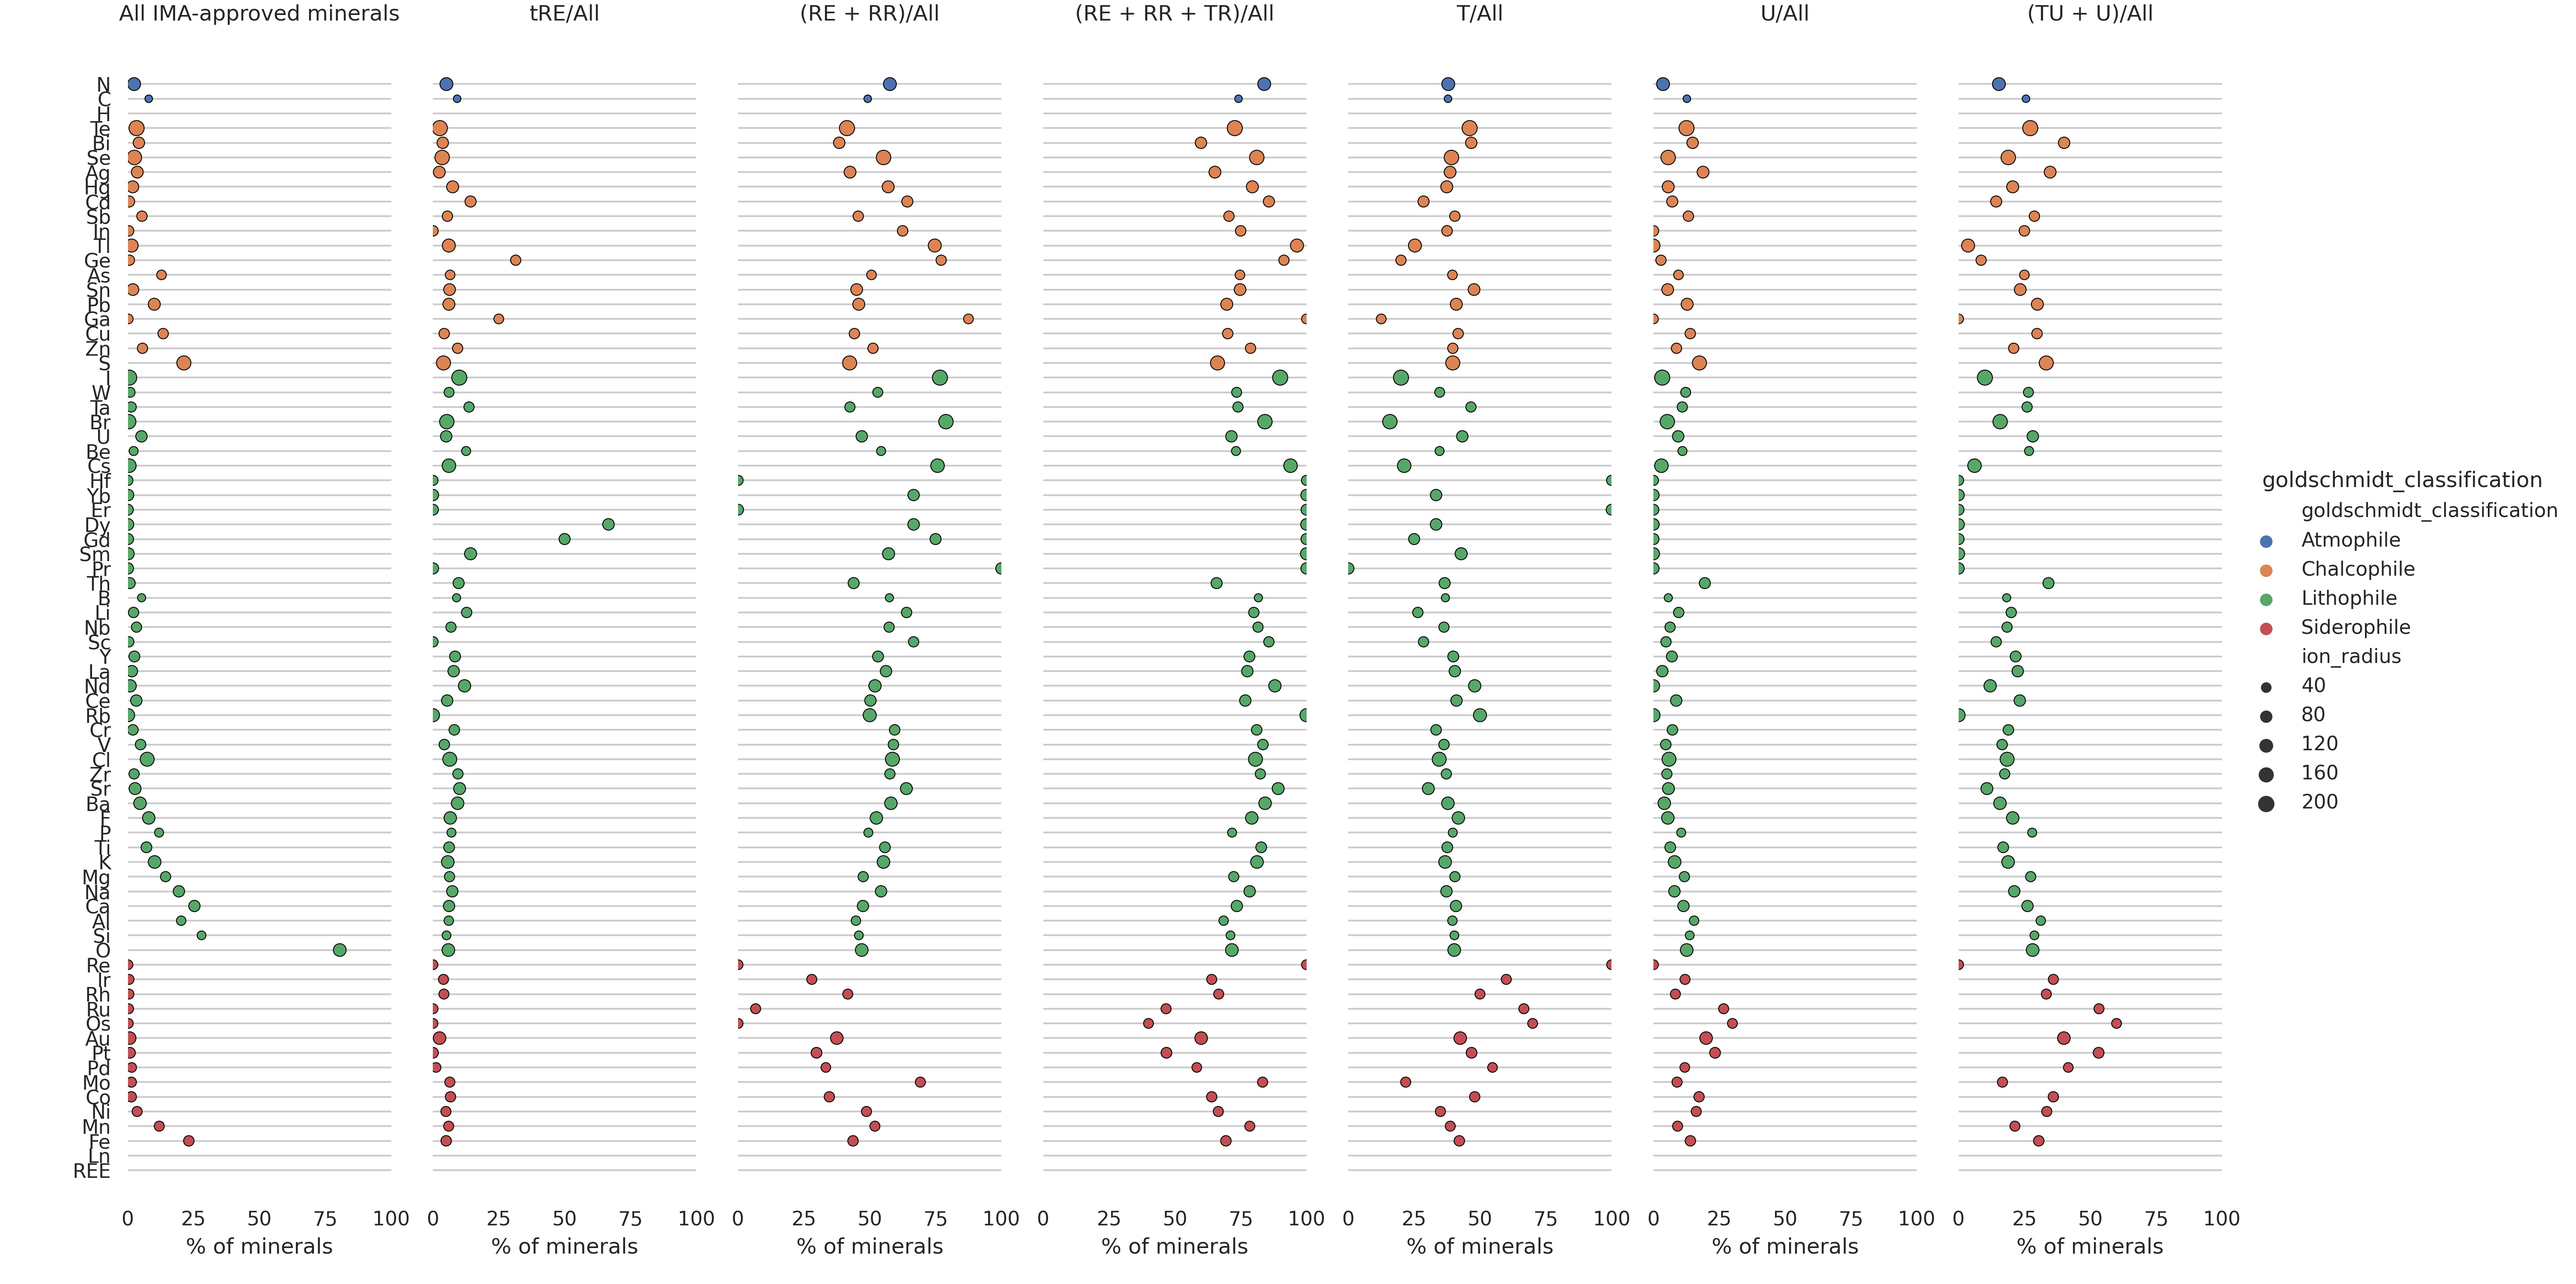
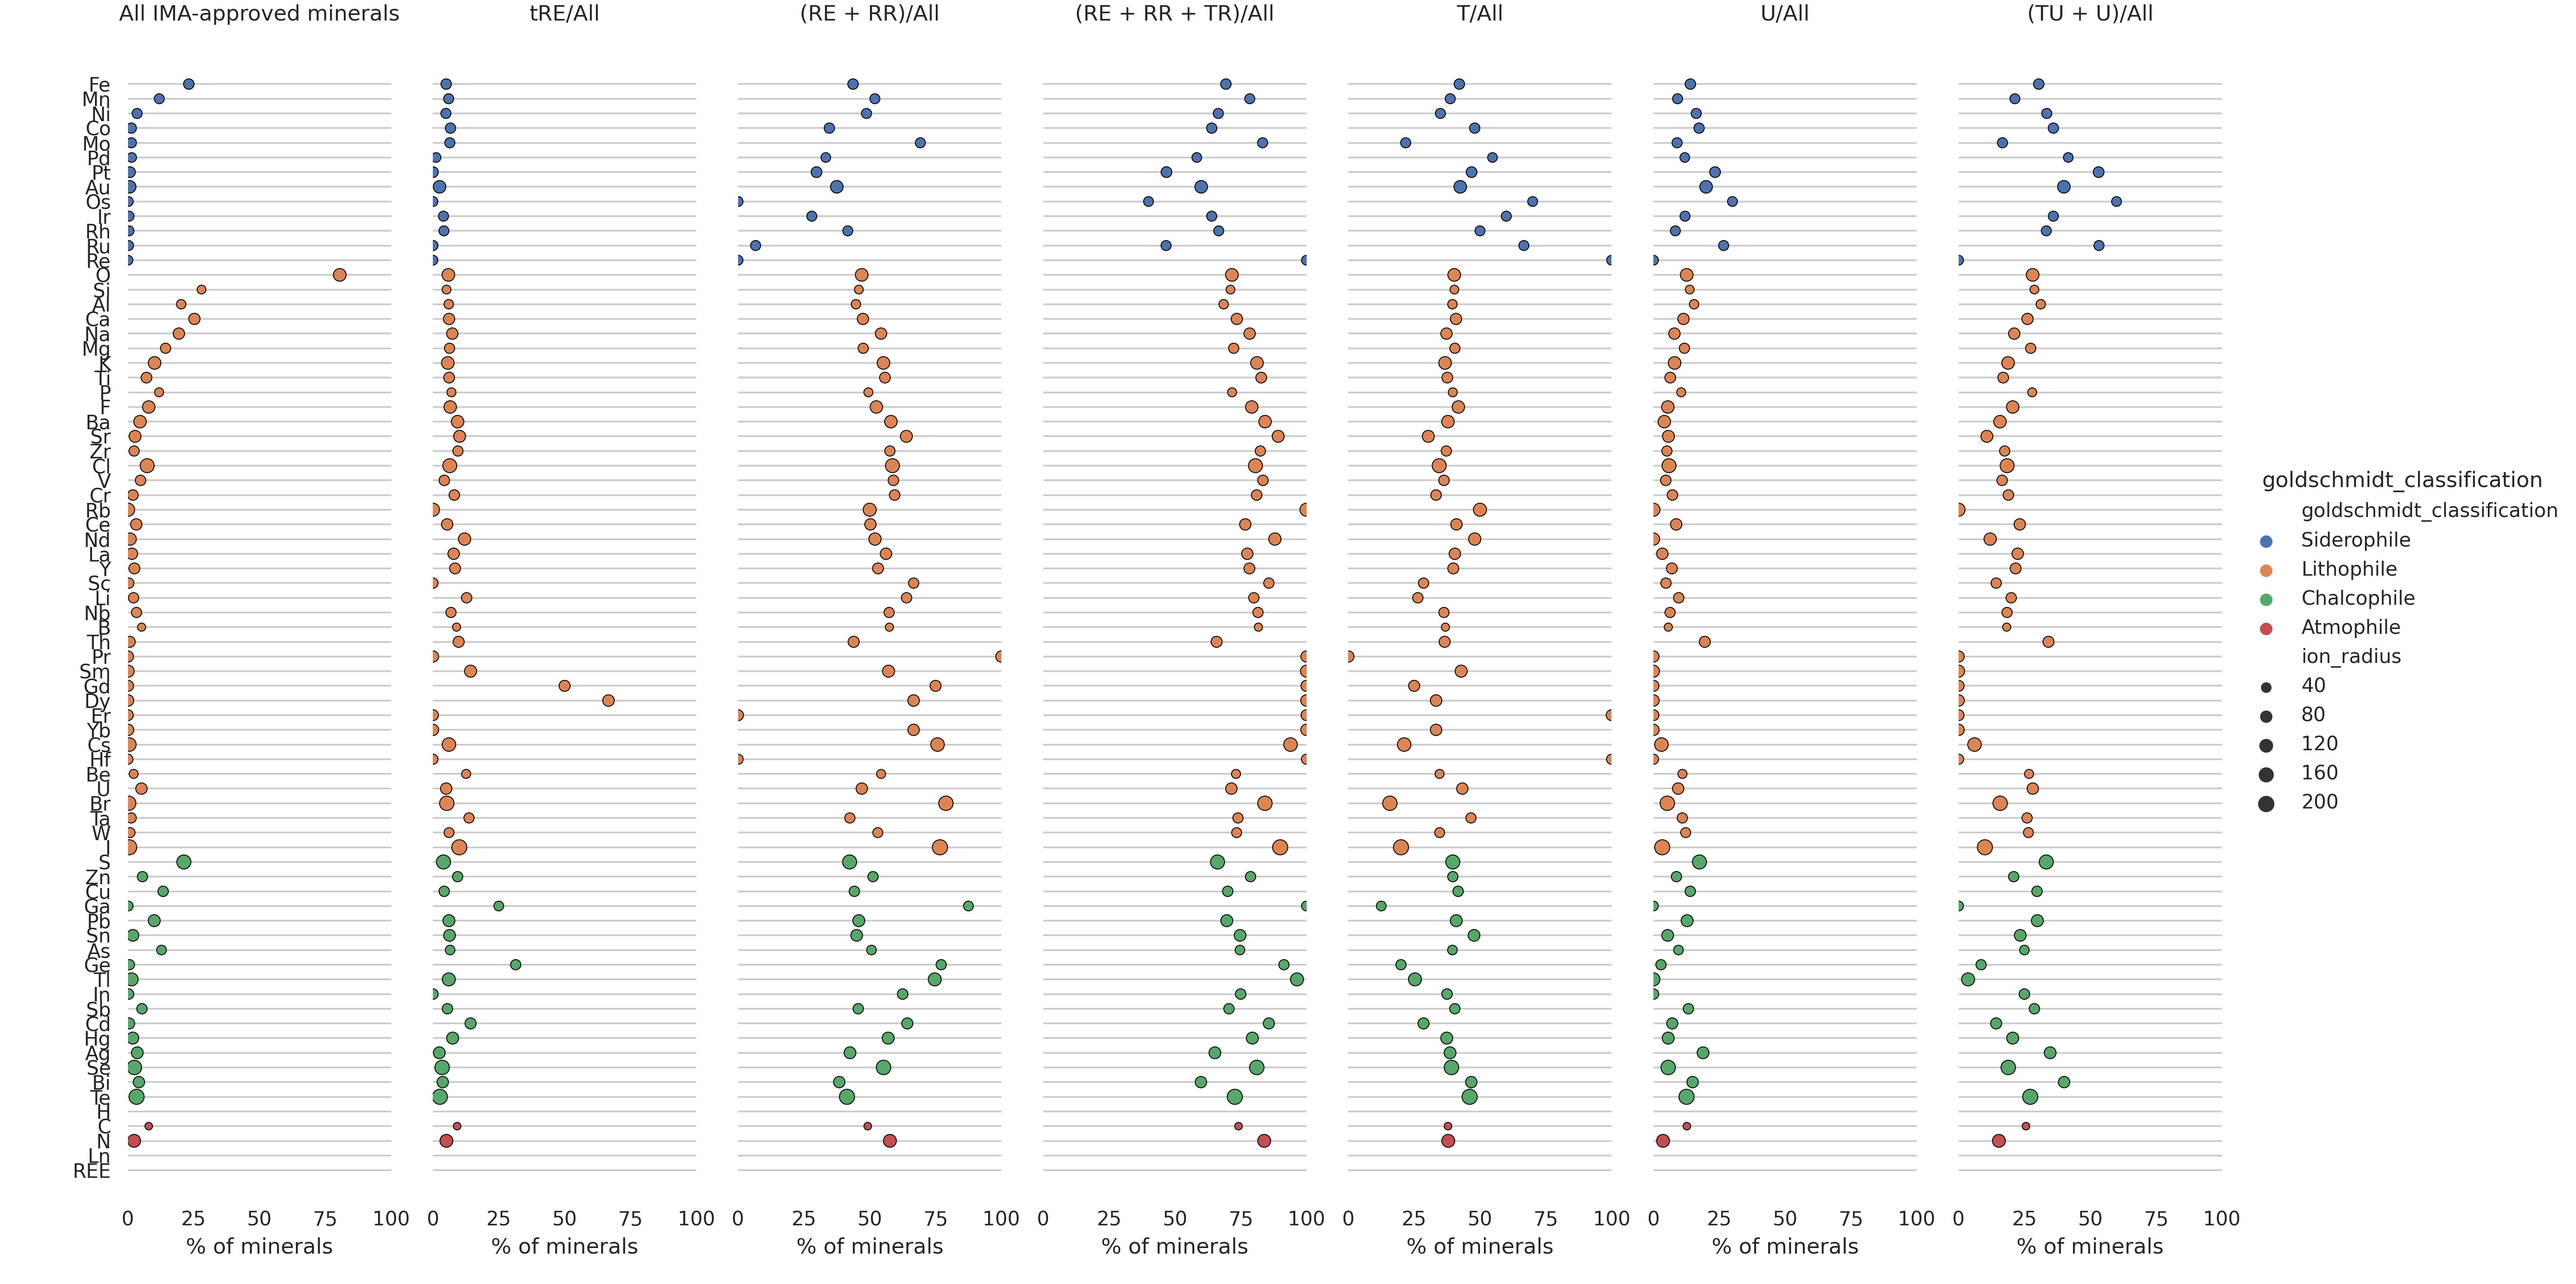
resort dot plot in descending order

diff --git a/main/compare_chemistry.py b/main/compare_chemistry.py
@@ -220,7 +220,7 @@ plt.close()
 # Dot plot of elements, sorted by goldschmidt groups (for Vitalii)
 
 sns.set_theme(style="whitegrid")
-initial_data = abundance.sort_values(['goldschmidt_classification', 'crust_crc_handbook'])
+initial_data = abundance.sort_values(['goldschmidt_classification', 'crust_crc_handbook'], ascending=False)
 
 # Make the PairGrid
 g = sns.PairGrid(data=initial_data,
@@ -228,7 +228,7 @@ g = sns.PairGrid(data=initial_data,
                  hue="goldschmidt_classification", hue_order=None, height=10, aspect=.25)
 
 
-g.map(sns.scatterplot, size=initial_data['atomic_number'], linewidth=0.5, marker='o', edgecolor='black')
+g.map(sns.scatterplot, size=initial_data['ion_radius'], linewidth=0.5, marker='o', edgecolor='black')
 
 g.add_legend()
 
@@ -250,7 +250,7 @@ for ax, title in zip(g.axes.flat, titles):
 
 sns.despine(left=True, bottom=True)
 
-plt.savefig(f"figures/chemistry/dot_plot_sorted_by_crustal_abundance_size_atomic_number.jpeg", dpi=300, format='jpeg')
+plt.savefig(f"figures/chemistry/dot_plot_sorted_by_crustal_abundance_size_ion_radius.jpeg", dpi=300, format='jpeg')
 plt.close()
 
 
@@ -430,10 +430,11 @@ plt.close()
 (sorted(eigenvector_centrality.items(), key=lambda item: item[1], reverse=True))[:10]
 
 ## analyse specific elements EXACT OR INEXACT MATCH
-elements = ['Ru']
+elements = ['Pb']
+initial_data = re_true_el
 exact = False
 
-minerals = r_el.loc[r_el['Elements'].isin(elements)]
+minerals = initial_data.loc[initial_data['Elements'].isin(elements)]
 minerals['count'] = minerals.groupby(minerals.index).count()
 if exact:
     minerals = minerals.loc[minerals['count'] == len(elements)]
@@ -441,10 +442,11 @@ minerals = minerals.index
 test = mr_data.loc[minerals].drop_duplicates()
 r_el.loc[minerals].groupby('Elements').size().sort_values()
 test.groupby('CLASS').size().sort_values()
+test.groupby('SUBCLASS').size().sort_values()
 test.groupby('FAMILY').size().sort_values()
 
 ### further analyse anions of these elements
-anions_to_check = ['S']
+anions_to_check = ['SO_4_']
 
 anions = pd.DataFrame(test['anions_theoretical'].str.split('; *?').explode(0))
 anions = anions.loc[anions['anions_theoretical'].isin(anions_to_check)].index.drop_duplicates()
